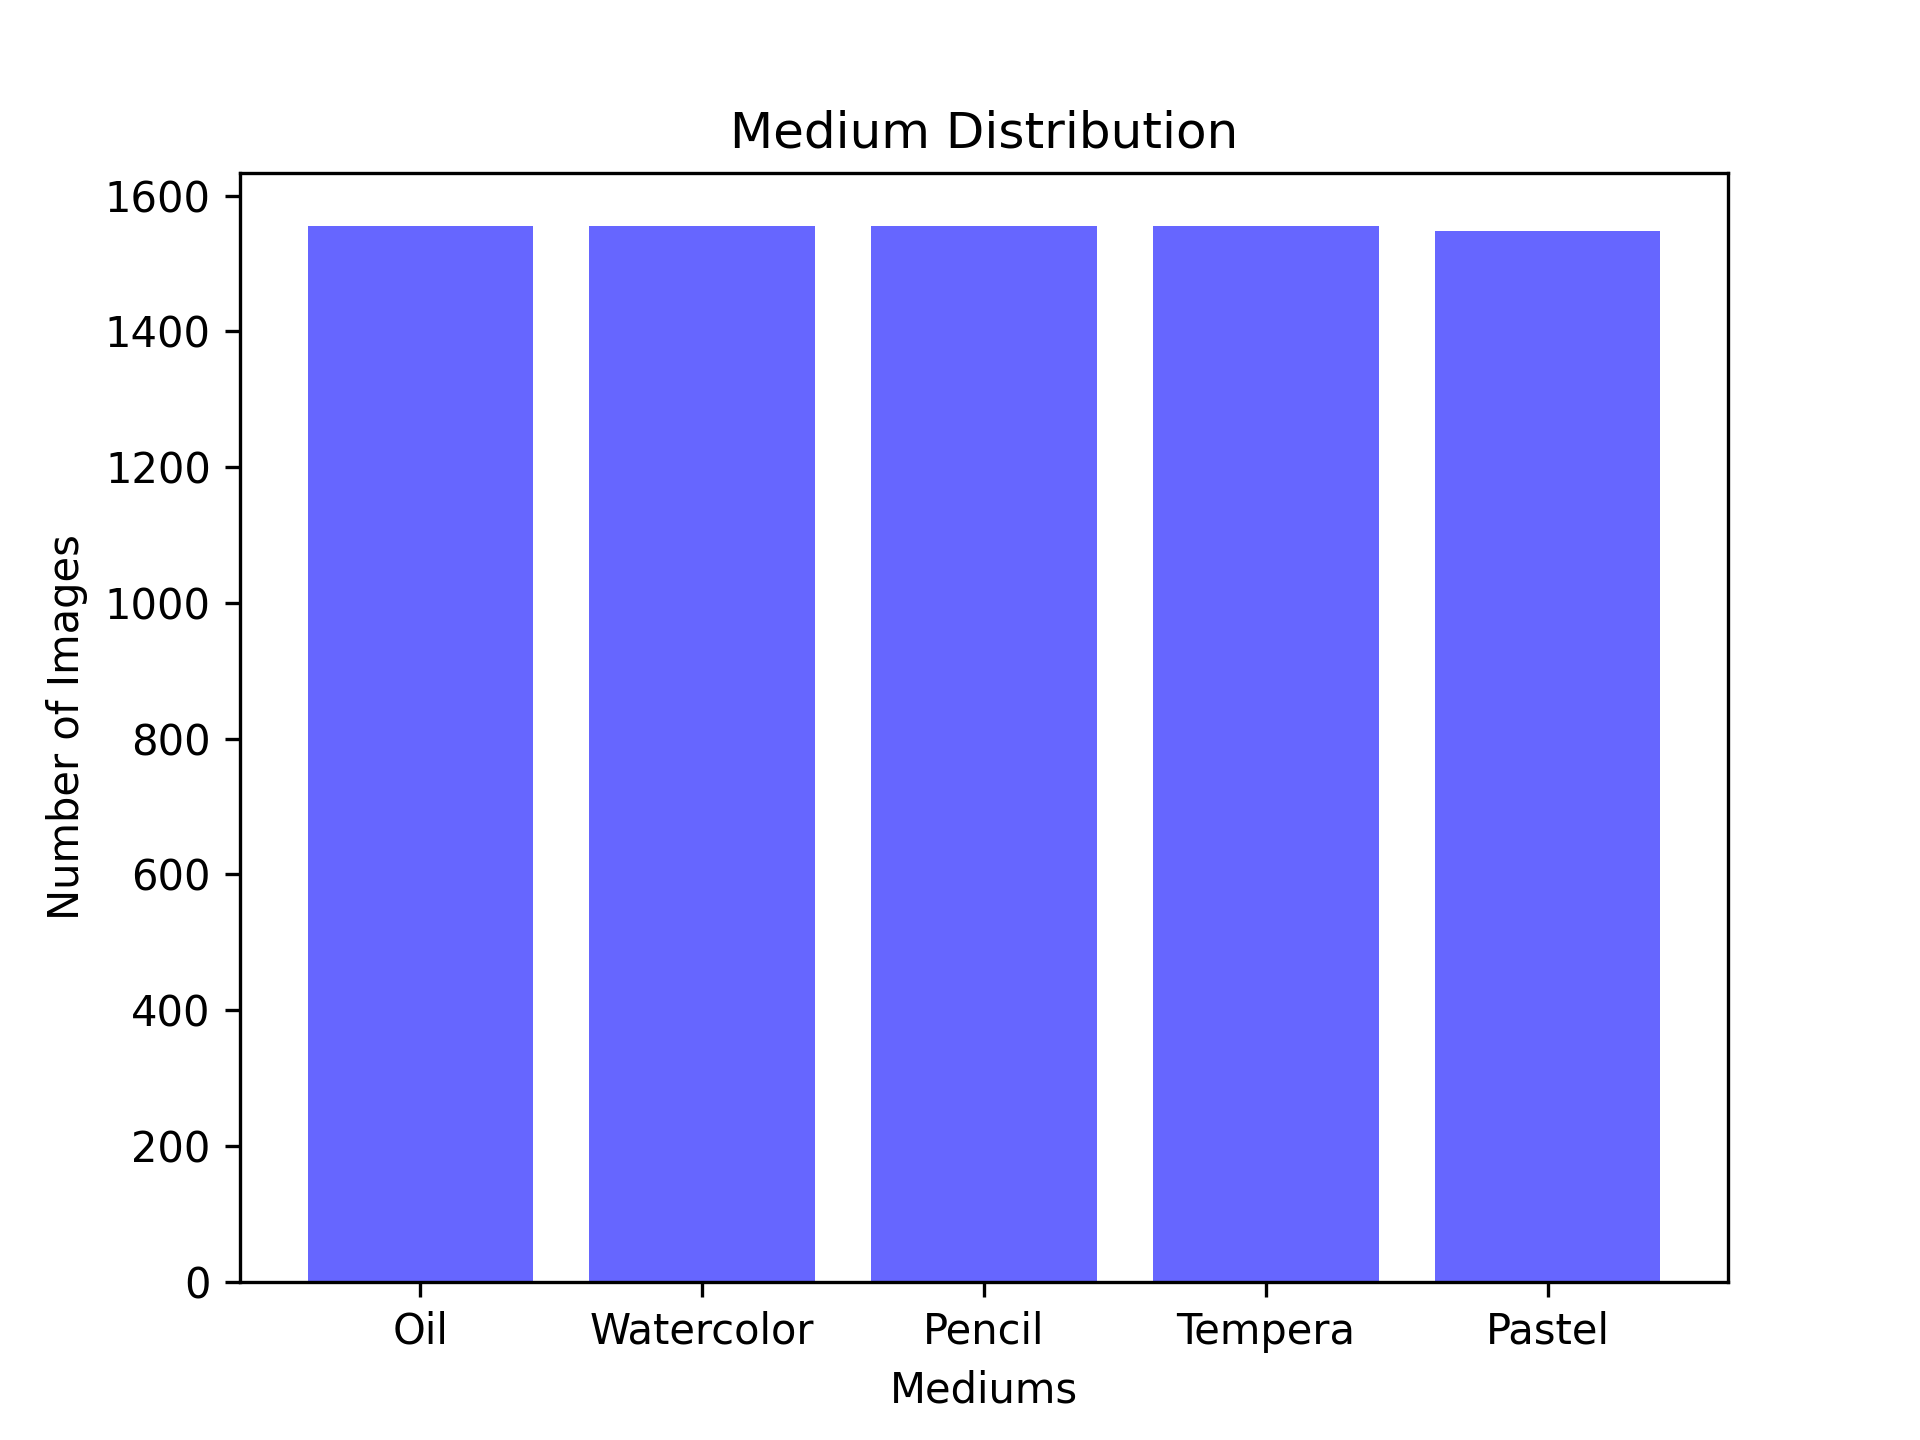
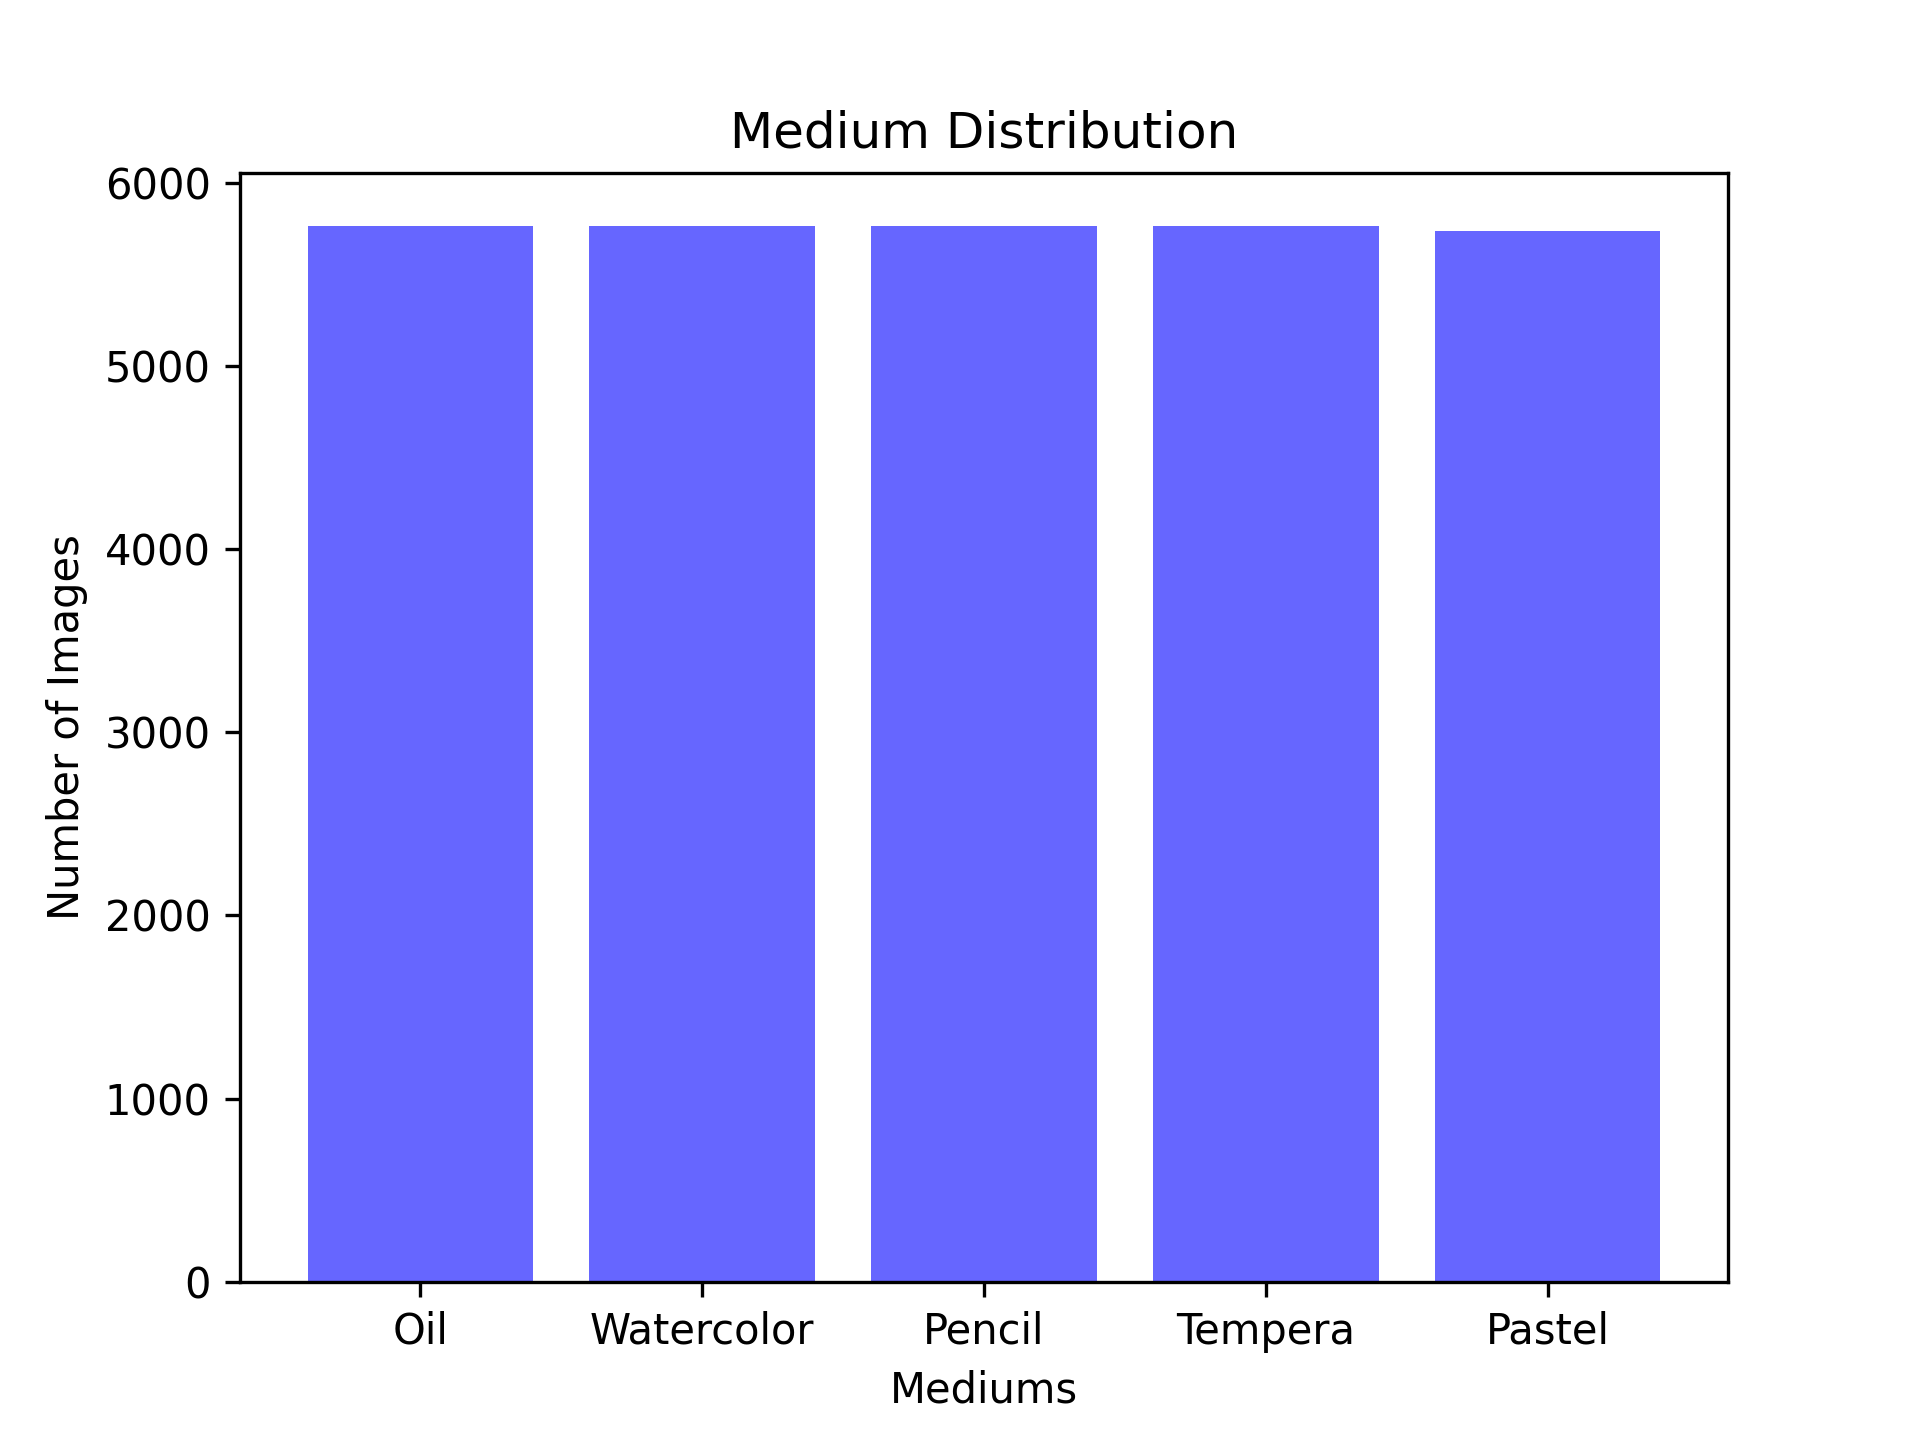
Implement rotation technique

diff --git a/src/data/make_dataset.py b/src/data/make_dataset.py
@@ -248,7 +248,7 @@ def get_test_images():
     return res_dict
 
 
-def patch_images():
+def patch_images(rotate=False):
     """
     Will split original images into four sub-images (non-overlapping). It will do this with the version provided, and
     create a new version with the patching implemented.
@@ -278,7 +278,14 @@ def patch_images():
 
                         cropped_image = image.crop((left, top, right, bottom))
 
-                        cropped_image.save(f"{new_version_fp}/{image_name.split('.jpg')[0]}_{i}_{j}.jpg")
+                        # Do not rotate testing images (no need)
+                        if rotate and data_dir != 'test':
+                            for angle in range(0, 360, 90):
+                                rotated = cropped_image.rotate(angle, expand=True)
+                                filename = f"{new_version_fp}/{image_name.split('.jpg')[0]}_{i}_{j}_{angle}.jpg"
+                                rotated.save(filename)
+                        else:
+                            cropped_image.save(f"{new_version_fp}/{image_name.split('.jpg')[0]}_{i}_{j}.jpg")
 
 
 def make_data_split():
@@ -330,7 +337,7 @@ def main():
     Controls this script.
     """
     # make_data_split()
-    patch_images()
+    patch_images(rotate=True)
     # handle_national_goa()
 
 
